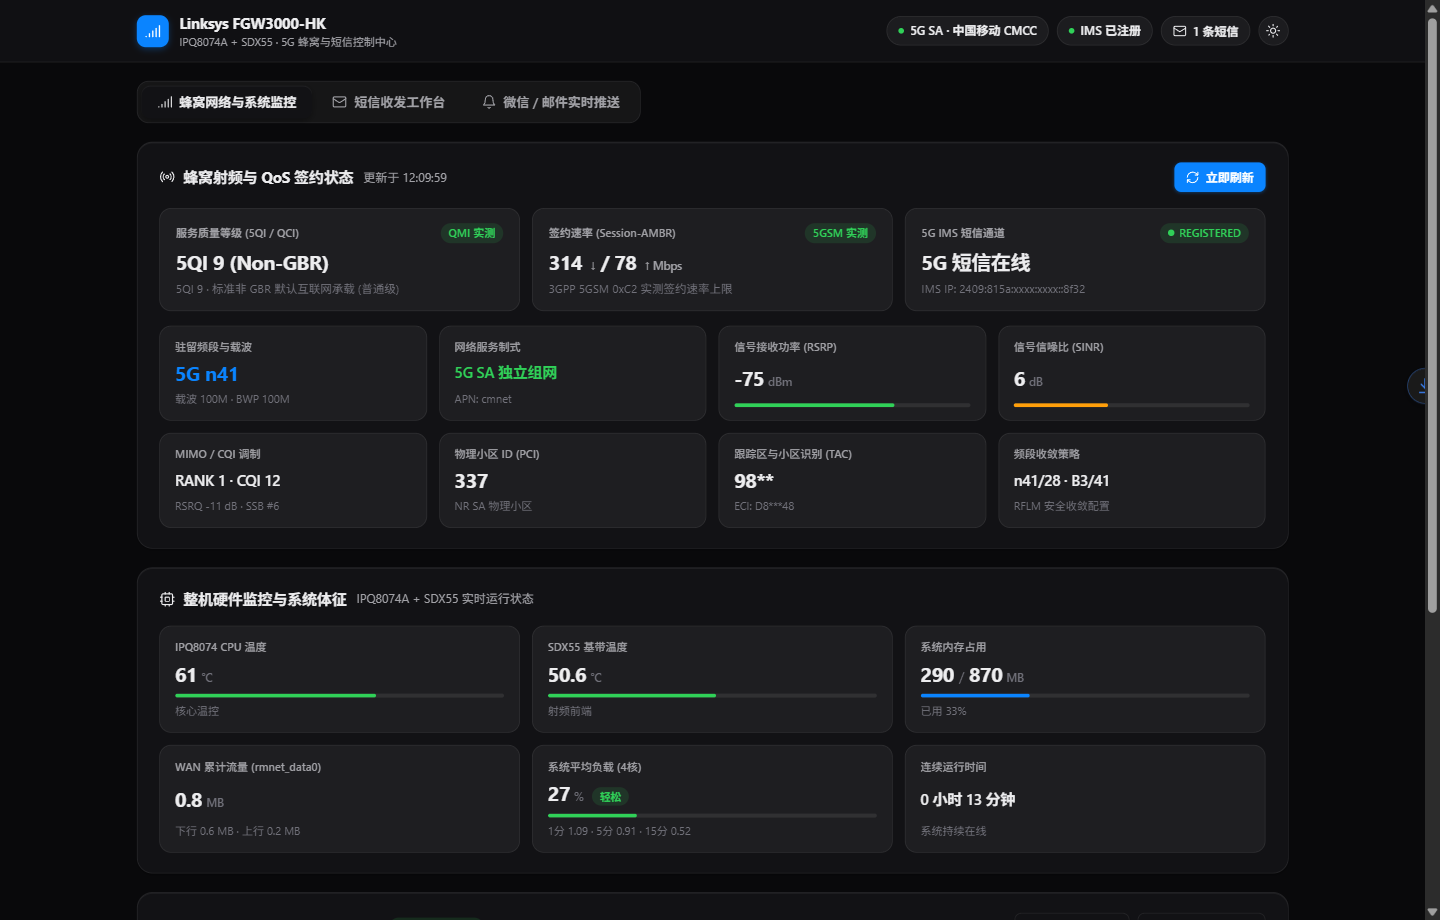
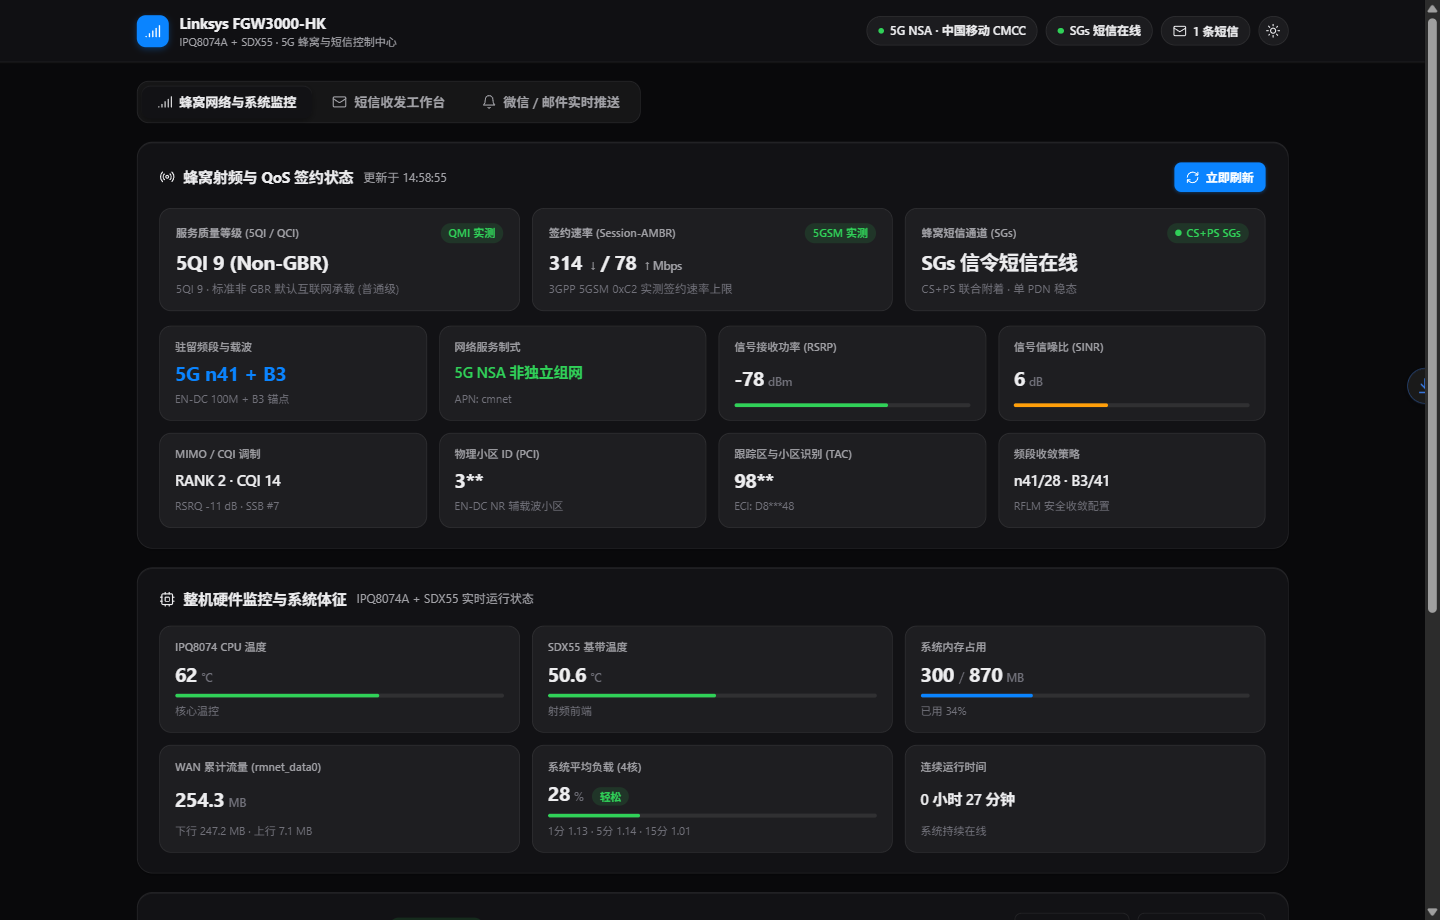
feat: switch steady-state to 5G NSA EN-DC + SGs SMS, QMI WMS zero-AT check & 2-min MHI -110 watchdog

diff --git a/dashboard/dashboard.html b/dashboard/dashboard.html
@@ -721,11 +721,11 @@
       <div class="header-actions">
         <div class="status-pill" id="badge-carrier" title="当前蜂窝网络制式与运营商">
           <span class="dot-6" id="dot-carrier"></span>
-          <span id="txt-carrier">5G SA · 检测中</span>
+          <span id="txt-carrier">5G · 检测中</span>
         </div>
-        <div class="status-pill" id="badge-ims" title="基带 5G IMS 短信通道注册状态">
+        <div class="status-pill" id="badge-ims" title="蜂窝短信通道状态 (SGs / IMS)">
           <span class="dot-6 warn" id="dot-ims-hdr"></span>
-          <span id="txt-ims-hdr">IMS 检测中</span>
+          <span id="txt-ims-hdr">短信通道检测中</span>
         </div>
         <button class="status-pill" onclick="switchTab('tab-sms', document.querySelectorAll('.tab-btn')[1])" title="查看短信收件箱">
           <svg class="ic" width="14" height="14" viewBox="0 0 24 24" fill="none" stroke="currentColor" stroke-width="1.75" stroke-linecap="round" stroke-linejoin="round" aria-hidden="true"><rect width="20" height="16" x="2" y="4" rx="2"/><path d="m22 7-8.97 5.7a1.94 1.94 0 0 1-2.06 0L2 7"/></svg>
@@ -801,14 +801,14 @@
 
           <div class="qos-card">
             <div class="qos-top">
-              <span class="qos-label">5G IMS 短信通道</span>
+              <span class="qos-label" id="lbl-ims-card">蜂窝短信通道</span>
               <span class="qos-pill warn" id="pill-ims">
                 <span class="dot-6 warn" id="dot-ims-card"></span>
                 <span id="txt-ims-badge">检测中</span>
               </span>
             </div>
             <div class="qos-kpi tabular" id="val-ims-status">检测中</div>
-            <div class="qos-desc tabular" id="val-ims-ip" title="基带本地 IMS 承载地址">基带本地独立承载 (10.10.10.3)</div>
+            <div class="qos-desc tabular" id="val-ims-ip" title="蜂窝短信承载模式">检测蜂窝短信通道模式...</div>
           </div>
         </div>
 
@@ -1268,7 +1268,7 @@
           </div>
           <div style="margin-top: 10px;">
             <label class="form-label">屏蔽关键词列表（英文逗号 <code class="inline-code">,</code> 分隔）</label>
-            <input type="text" class="form-input" id="cfg-ignore-keywords" placeholder="推广, 办理业务, 积分兑换, 营销">
+            <input type="text" class="form-input" id="cfg-ignore-keywords" placeholder="手机报, 推广, 办理业务, 积分兑换">
             <p class="fwd-note">命中关键词的短信仍会留在收件箱，但不会触发外部渠道通知。</p>
           </div>
         </div>
@@ -1447,30 +1447,39 @@
       const btnIcon = btn ? btn.querySelector('.ic') : null;
       if (isManual && btnIcon) btnIcon.classList.add('spin');
       try {
-        const res = await fetch('/weblog/api.cgi?action=get_cellular');
+        const res = await fetch(`/weblog/api.cgi?action=get_cellular${isManual ? '&nocache=1' : ''}`);
         const data = await res.json();
         if (data && data.success) {
           const c = data.cellular || {};
           const sys = data.system || {};
 
-          const is5G = (c.nr_band && c.nr_band !== 'N/A' && c.nr_band !== '0');
+          const is5G = Boolean(c.nr_band && c.nr_band !== 'N/A' && c.nr_band !== '0');
+          const hasLteAnchor = Boolean(c.band && c.band !== 'N/A' && c.band !== '0');
+          const isNsa = is5G && (String(c.sa_mode) === '1' || c.rat === 'NR5G-NSA');
           const carrierBw = (c.nr_bandwidth && c.nr_bandwidth !== '0' && c.nr_bandwidth !== 'N/A') ? c.nr_bandwidth : null;
           const bwpBw = (c.nr_bwp_mhz !== undefined && c.nr_bwp_mhz !== null && c.nr_bwp_mhz !== 'N/A') ? c.nr_bwp_mhz : null;
 
           // Band & Mode
-          document.getElementById('val-band').textContent = is5G ? `5G n${c.nr_band}` : `LTE B${c.band || '3'}`;
-          document.getElementById('val-band-sub').textContent = is5G
-            ? (carrierBw ? `载波 ${carrierBw}M · BWP ${bwpBw ?? '--'}M` : 'NR SA 载波')
-            : '4G LTE 载波';
+          document.getElementById('val-band').textContent = isNsa && hasLteAnchor
+            ? `5G n${c.nr_band} + B${c.band}`
+            : (is5G ? `5G n${c.nr_band}` : `LTE B${c.band || '3'}`);
+          document.getElementById('val-band-sub').textContent = isNsa
+            ? (carrierBw ? `EN-DC ${carrierBw}M + B${c.band || '3'} 锚点` : 'EN-DC 双连接载波')
+            : (is5G
+              ? (carrierBw ? `载波 ${carrierBw}M · BWP ${bwpBw ?? '--'}M` : 'NR SA 载波')
+              : '4G LTE 载波');
 
           const saEl = document.getElementById('val-sa-mode');
-          saEl.innerHTML = is5G
-            ? '<span style="color:var(--success);">5G SA 独立组网</span>'
-            : '<span style="color:var(--primary);">4G LTE 服务态</span>';
+          saEl.innerHTML = isNsa
+            ? '<span style="color:var(--success);">5G NSA 非独立组网</span>'
+            : (is5G
+              ? '<span style="color:var(--success);">5G SA 独立组网</span>'
+              : '<span style="color:var(--primary);">4G LTE 服务态</span>');
 
           const opLabel = plmnName(c.plmnid);
+          const modeShort = isNsa ? '5G NSA' : (is5G ? '5G SA' : '4G LTE');
           const txtCarrier = document.getElementById('txt-carrier');
-          if (txtCarrier) txtCarrier.textContent = `${is5G ? '5G SA' : '4G LTE'} · ${opLabel}`;
+          if (txtCarrier) txtCarrier.textContent = `${modeShort} · ${opLabel}`;
           document.getElementById('dns-plmn').textContent = `${c.plmnid && c.plmnid !== 'N/A' ? c.plmnid : '--'} · ${c.apn || 'cmnet'}`;
 
           // Active carrier preset highlight
@@ -1525,39 +1534,59 @@
               : '当前基带未暴露 Session-AMBR';
           }
 
-          // IMS Registration Status (from top-level data.ims)
+          // SMS Channel Status (Adaptive: 5G IMS when registered, SGs in 5G NSA / 4G, warn only in pure SA without IMS)
           const ims = data.ims || {};
           const imsKnown = data.ims !== undefined;
           const imsReg = ims.registered === true;
+          const isSgsMode = String(c.sa_mode) === '1' || String(c.net_mode) === '1' || c.rat === 'NR5G-NSA' || !is5G;
           const dotHdr = document.getElementById('dot-ims-hdr');
           const dotCard = document.getElementById('dot-ims-card');
           const pillIms = document.getElementById('pill-ims');
-          if (!imsKnown) {
-            dotHdr.className = 'dot-6 warn';
-            dotCard.className = 'dot-6 warn';
-            pillIms.className = 'qos-pill neutral';
-            document.getElementById('txt-ims-hdr').textContent = 'IMS 待接入';
-            document.getElementById('txt-ims-badge').textContent = '待上报';
-            document.getElementById('val-ims-status').textContent = '检测中';
-          } else if (imsReg) {
+          const lblImsCard = document.getElementById('lbl-ims-card');
+          const ipEl = document.getElementById('val-ims-ip');
+          if (imsReg) {
             dotHdr.className = 'dot-6';
             dotCard.className = 'dot-6';
             pillIms.className = 'qos-pill ok';
+            if (lblImsCard) lblImsCard.textContent = '5G IMS 短信通道';
             document.getElementById('txt-ims-hdr').textContent = 'IMS 已注册';
             document.getElementById('txt-ims-badge').textContent = ims.state || 'REGISTERED';
-            document.getElementById('val-ims-status').textContent = '5G 短信在线';
-            const ipEl = document.getElementById('val-ims-ip');
+            document.getElementById('val-ims-status').textContent = '5G IMS 短信在线';
             if (ims.ip) {
               ipEl.textContent = `IMS IP: ${ims.ip}`;
               ipEl.title = `IMS IPv6: ${ims.ip} | P-CSCF: ${ims.pcscf || '--'}`;
+            } else {
+              ipEl.textContent = '基带本地独立承载 (10.10.10.3)';
+              ipEl.title = '基带本地 IMS 承载地址';
             }
+          } else if (isSgsMode) {
+            dotHdr.className = 'dot-6';
+            dotCard.className = 'dot-6';
+            pillIms.className = 'qos-pill ok';
+            if (lblImsCard) lblImsCard.textContent = '蜂窝短信通道 (SGs)';
+            document.getElementById('txt-ims-hdr').textContent = 'SGs 短信在线';
+            document.getElementById('txt-ims-badge').textContent = 'CS+PS SGs';
+            document.getElementById('val-ims-status').textContent = 'SGs 信令短信在线';
+            ipEl.textContent = 'CS+PS 联合附着 · 单 PDN 稳态';
+            ipEl.title = '4G EPC / EN-DC CS+PS 联合附着原生 SGs 信令通道 (无需独立 IMS 会话)';
+          } else if (!imsKnown) {
+            dotHdr.className = 'dot-6 warn';
+            dotCard.className = 'dot-6 warn';
+            pillIms.className = 'qos-pill neutral';
+            if (lblImsCard) lblImsCard.textContent = '5G IMS 短信通道';
+            document.getElementById('txt-ims-hdr').textContent = 'IMS 待接入';
+            document.getElementById('txt-ims-badge').textContent = '待上报';
+            document.getElementById('val-ims-status').textContent = '检测中';
           } else {
             dotHdr.className = 'dot-6 warn';
             dotCard.className = 'dot-6 warn';
             pillIms.className = 'qos-pill warn';
+            if (lblImsCard) lblImsCard.textContent = '5G IMS 短信通道';
             document.getElementById('txt-ims-hdr').textContent = 'IMS 未注册';
             document.getElementById('txt-ims-badge').textContent = ims.state || 'OFFLINE';
             document.getElementById('val-ims-status').textContent = ims.running ? '重注册中' : '服务未运行';
+            ipEl.textContent = '纯 5G SA 单 PDN 模式 (未启用 IMS)';
+            ipEl.title = '纯 5G SA 下需启用基带 IMS 方可收信';
           }
 
           // RSRP & SINR
@@ -1595,9 +1624,9 @@
             rankSubEl.textContent = [rsrqPart, ssbPart].filter(Boolean).join(' · ') || '4x4 MIMO 链路';
           } else {
             rankCqiEl.textContent = is5G ? 'RRC IDLE' : 'LTE 链路';
-            rankSubEl.textContent = is5G ? '无业务休眠 (BWP 20MHz)' : 'SDX55 4G 链路';
+            rankSubEl.textContent = isNsa ? `SCG 休眠 (B${c.band || '3'} 锚点在线)` : (is5G ? '无业务休眠 (BWP 20MHz)' : 'SDX55 4G 链路');
           }
-          document.getElementById('val-arfcn-sub').textContent = is5G ? 'NR SA 物理小区' : 'LTE 物理小区';
+          document.getElementById('val-arfcn-sub').textContent = isNsa ? 'EN-DC NR 辅载波小区' : (is5G ? 'NR SA 物理小区' : 'LTE 物理小区');
 
           // PCI, TAC, ECI, APN, Bands
           const pci = is5G ? (c.nr_pcid && c.nr_pcid !== '0' && c.nr_pcid !== 'N/A' ? c.nr_pcid : (c.real_cell_id || '--')) : (c.real_cell_id || '--');
@@ -2048,7 +2077,7 @@
         tg_chat_id: document.getElementById('cfg-tg-chat').value.trim(),
         webhook_enabled: document.getElementById('fwd-webhook-enabled').checked,
         webhook_url: document.getElementById('cfg-webhook-url').value.trim(),
-        ignore_keywords: document.getElementById('cfg-ignore-keywords').value.trim() || ''
+        ignore_keywords: document.getElementById('cfg-ignore-keywords').value.trim()
       };
       try {
         const res = await fetch('/weblog/api.cgi?action=save_forward_config', {

diff --git a/README.md b/README.md
@@ -3,15 +3,15 @@
 > **⚠ 本项目的 HTML/脚本/刷机包均为 Linksys FGW3000-HK 专用，其他型号（如 FGW3000 / 非 HK 版）不适用！**
 >
 > 为 **Linksys FGW3000-HK**（高通 IPQ8074A + 骁龙 SDX55 5G CPE，香港版）打造的
-> **调试权限开启 + 5G SA 频段解锁 + 基带本地 5G IMS 短信 + 极客 Web 控制台** 开源项目。
-> 支持四大运营商 5G SA 收敛锁频、QMI 5QI / 3GPP 5GSM 签约速率检测、5G 短信实时收发与多渠道推送、WAN 双栈自愈守护、SmartDNS 加速及可选透明代理。
+> **调试权限开启 + 5G NSA/SA 频段解锁 + SGs / IMS 双栈短信 + 极客 Web 控制台** 开源项目。
+> 支持四大运营商 5G NSA (EN-DC) / SA 收敛锁频、QMI 5QI / 3GPP 5GSM 签约速率检测、原生 SGs 与可选 5G IMS 短信实时收发及多渠道推送、WAN 双栈自愈守护、SmartDNS 加速及可选透明代理。
 
 **English** | [中文](#中文文档)
 
 > **⚠ HTML / scripts / config pack are for Linksys FGW3000-HK (HK version) ONLY.**
 
 An open-source enhancement suite for the **Linksys FGW3000-HK** 5G CPE:
-**unlock Telnet/SSH** + **enable CN 5G SA (n41/n28/n78/n79)** + **modem-local QRTR 5G IMS SMS** + **QMI 5QI & 3GPP 5GSM Session-AMBR telemetry** + **Apple HIG web dashboard** (WAN dual-stack self-healing, SmartDNS + Anti-AD, multi-channel SMS forwarding, and optional Sing-box transparent proxy).
+**unlock Telnet/SSH** + **enable CN 5G NSA/SA (n41/n28/n78/n79)** + **native CS+PS SGs SMS & QMI WMS zero-AT polling (plus opt-in modem QRTR 5G IMS SMS)** + **QMI 5QI & 3GPP 5GSM Session-AMBR telemetry** + **Apple HIG web dashboard** (WAN dual-stack self-healing, 2-min MHI `-110/-12` watchdog, SmartDNS + Anti-AD, multi-channel SMS forwarding, and optional Sing-box transparent proxy).
 
 ### 界面预览 / Screenshots
 
@@ -19,7 +19,7 @@ An open-source enhancement suite for the **Linksys FGW3000-HK** 5G CPE:
 | :---: | :---: |
 | ![蜂窝与 QoS 监控（浅色）](docs/images/dashboard-light-cell.png) | ![蜂窝与 QoS 监控（深色）](docs/images/dashboard-dark-cell.png) |
 
-| 5G IMS 短信收发工作台 | 多渠道短信实时推送 |
+| 蜂窝短信收发工作台 | 多渠道短信实时推送 |
 | :---: | :---: |
 | ![短信收发工作台](docs/images/dashboard-light-sms.png) | ![多渠道实时推送](docs/images/dashboard-light-forward.png) |
 
@@ -40,10 +40,10 @@ An open-source enhancement suite for the **Linksys FGW3000-HK** 5G CPE:
 | 原厂状态（痛点） | 本项目之后（你能做的） |
 | --- | --- |
 | 没有 Telnet/SSH，进不去系统，什么都改不了 | **永久开启 Telnet/SSH（仅限 LAN `br0` 内网访问）**，安全可控 |
-| **原厂固件默认未开启 5G SA**，隐藏国内移动 `n41` 等主力频段 | **开启 5G SA 并解锁国内四大运营商频段（移动/广电 `n41/n28/n79`、电信/联通 `n78/n1`）** |
-| 5G 模式下无法收发短信验证码，多 PDN 拨号导致硬件加速失效 | **基带本地 QRTR 5G IMS 短信守护（`ims_sip`）**，单 PDN 满速与 5G 实时收信兼得 |
+| **原厂固件默认未开启国内 5G 主力频段**，隐藏移动 `n41` 等载波 | **完整解锁四大运营商 5G NSA/SA 频段（移动/广电 `n41/n28/n79`、电信/联通 `n78/n1`）** |
+| 原厂锁死纯数据域（`PS_ONLY`）无法收短信，且 5G SA 双 PDU 会话易触发基带 `-110` 假死 | **5G NSA (`EN-DC` 120MHz) + `CS+PS` 原生 SGs 短信 + QMI WMS 零阻塞预检**（单 PDN 硬件加速满速与 7×24 零死机兼得，另附可选 `ims_sip`） |
 | 看不见 SIM 卡真实网络等级与签约限速，排查网速靠盲猜 | **直读 QMI 5QI/QCI 等级 + 3GPP 5GSM `0xC2` 核心网下发签约速率（Session-AMBR）** |
-| 夜间基站切频重连丢 IPv6 或极端 MHI 假死断网 | **`net_orchestrator.sh` Raw-IP 双栈自愈 + MHI 假死智能复位 + `223.5.5.5` DNS 兜底** |
+| 夜间基站切频重连丢 IPv6 或极端 MHI 假死断网 | **`net_orchestrator.sh` Raw-IP 双栈自愈 + 2 分钟 MHI `-110/-12` 智能冷启自救 + `223.5.5.5` DNS 兜底** |
 | 官方 Web 后台功能寒酸、没有验证码转发 | **Apple HIG 双主题控制台** + 微信 PushPlus / 邮箱 SMTP / Bark / Telegram / Webhook 推送 |
 
 > **关于 5G SA 与频段安全上限（重要）**：FGW3000-HK 的 SDX55 基带硬件支持 `n41 / n28 / n78 / n79 / n1 / n3 / n5` 等频段，但**高通 RFLM 射频前端交换矩阵限制单次同时激活的 `LTE + NR` 总频段数建议控制在 `≤ 5` 个以内**（按当前运营商收敛开启，切勿一次性勾选 8~10 个频段，否则可能触发基带 RFLM XSW 断言保护重启）。详见 [docs/03](docs/03-原理与常见问题.md)。
@@ -214,13 +214,14 @@ ssh root@192.168.15.1   # root / admin
 **或命令行**（SSH/Telnet）：
 
 ```sh
-sh /mnt/jffs2/auto_carrier.sh force_cmcc   # 移动 SA (n41,n28 + B3,B41)
-sh /mnt/jffs2/auto_carrier.sh force_ct     # 电信 SA (n78,n1 + B1,B3)
-sh /mnt/jffs2/auto_carrier.sh force_cu     # 联通 SA (n78,n1 + B1,B3)
-sh /mnt/jffs2/auto_carrier.sh force_cbn    # 广电 SA (n28,n41,n79 + B3,B41)
+sh /mnt/jffs2/auto_carrier.sh force_cmcc      # 移动 5G NSA 稳态推荐 (EN-DC B3+n41 + 原生 SGs 短信)
+sh /mnt/jffs2/auto_carrier.sh force_cmcc_sa   # 移动 5G SA 单 PDN (n41,n28 + B3,B41)
+sh /mnt/jffs2/auto_carrier.sh force_ct        # 电信 5G SA 单 PDN (n78,n1 + B1,B3,B5)
+sh /mnt/jffs2/auto_carrier.sh force_cu        # 联通 5G SA 单 PDN (n78,n1 + B1,B3,B8)
+sh /mnt/jffs2/auto_carrier.sh force_cbn       # 广电 5G SA 单 PDN (n28,n41,n79 + B3,B41)
 ```
 
-**验证**：`AT+C5GREG?` 返回 `+C5GREG: 0,1` 即 SA 注册成功；面板实时展示驻留频段（如 `5G n41` 100MHz）、`RANK`、`5QI` 等级与签约速率。
+**验证**：5G NSA 下 `AT+COPS?` 返回 `13`（EN-DC）且 `AT+CREG?` 返回 `0,1`（SGs 短信在线）；5G SA 下 `AT+C5GREG?` 返回 `0,1`。面板自动识别并展示 `5G NSA 非独立组网`（如 `5G n41 + B3`）或 `5G SA 独立组网`、`RANK`、`5QI` 等级与签约速率。
 
 > 完整说明见 [`docs/03-原理与常见问题.md`](docs/03-原理与常见问题.md)。
 

diff --git a/docs/02-部署与配置.md b/docs/02-部署与配置.md
@@ -53,13 +53,13 @@ sh /mnt/jffs2/startup.sh                    # 手动执行一次验证
 
 ---
 
-## 二·五、部署基带侧 5G IMS 短信与 QoS 模块（Modem `10.10.10.3`，可选推荐）
+## 二·五、部署基带侧 SGs / QMI WMS 短信、QoS 与可选 5G IMS 模块（Modem `10.10.10.3`）
 
-为避免主路由开启多 PDN (`APN_Multiple_PDN_Enable=1`) 破坏 IPQ8074A NSS 硬件加速导致降速，5G IMS 短信守护直接运行在内部 SDX55 基带（`10.10.10.3`）本地：
+在推荐的 **5G NSA (`EN-DC`, `sa_mode=1`) / 4G 单 PDN 稳态模式** 下，主路由通过 `lte_mgr_csps`（`CS+PS` 联合附着）直接开启原生 SGs 信令收发短信，基带 `/data/parse_sms.pl` 通过 QRTR `QMI WMS 0x0031` 零阻塞预检 SIM/NV 槽位（日常 0 次打开 `/dev/smd7`），**默认无需启动第二条 `ims` PDU 会话**，彻底规避港版 SDX55 固件在 5G SA 并发双 PDU 会话下的 MPSS `-110` 死锁风险：
 
-1. 按 [`modem/ims_sip/README.md`](../modem/ims_sip/README.md) 交叉编译 `ARMv7` 静态二进制 `ims_sip`，上传至基带 `/data/ims_sip`（`chmod +x`）。
-2. 将 `modem/scripts/` 传入基带 `/data/`（`oem_init_post.sh`, `probe_ambr.pl`, `parse_sms.pl`, `del_sms.sh`, `send_sms.pl`），将 `modem/cgi-bin/` 传入 `/data/www/cgi-bin/`（`aka`, `ims_info`, `ims_sip_ctl`, `cell_qos`, `sms`, `delete_sms`, `send_sms`），统一执行 `chmod +x`。
-3. 确保基带 `/oem/script/oem_init_post.sh` 末尾包含 `sh /data/oem_init_post.sh &`（主路由 `deploy_to_modem.exp` 亦会在开机自动巡检恢复）。
+1. 将 `modem/scripts/` 传入基带 `/data/`（`oem_init_post.sh`, `probe_ambr.pl`, `parse_sms.pl`, `del_sms.sh`, `send_sms.pl`），将 `modem/cgi-bin/` 传入 `/data/www/cgi-bin/`（`aka`, `ims_info`, `ims_sip_ctl`, `cell_qos`, `sms`, `delete_sms`, `send_sms`），统一执行 `chmod +x`。
+2. 确保基带 `/oem/script/oem_init_post.sh` 末尾包含 `sh /data/oem_init_post.sh &`（主路由 `deploy_to_modem.exp` 亦会在开机自动巡检恢复）。
+3. **（可选，仅纯 5G SA 且无 SGs 回落环境按需启用）**：按 [`modem/ims_sip/README.md`](../modem/ims_sip/README.md) 交叉编译 `ARMv7` 静态二进制 `ims_sip` 上传至 `/data/ims_sip`，并在基带创建 `/data/.enable_ims_sip`（及主路由 `/mnt/jffs2/conf/user/.enable_ims_sip`）显式开启。
 
 ---
 

diff --git a/modem/ims_sip/README.md b/modem/ims_sip/README.md
@@ -31,4 +31,4 @@ go build -trimpath -ldflags="-s -w" -o ims_sip main.go
 - 二进制路径：`/data/ims_sip`（`chmod +x /data/ims_sip`）
 - 状态文件：`/tmp/ims_sip.status`、`/tmp/ims_sip.log`
 - 控制接口：`/data/www/cgi-bin/ims_sip_ctl?action=status|ensure|restart|stop`
-- 开机自启：由基带 `/data/oem_init_post.sh` 启动，并由主路由 `/mnt/jffs2/startup.sh` 跨端探活兜底。
+- 开机门控（默认关闭）：由于港版 SDX55 固件（`RXMG1.37.00.427_0C03`）在 **5G SA** 下长期并发维持第 2 条 `ims` PDU 会话存在 MPSS `-110` 死锁缺陷，日常 7×24 稳态推荐使用 **5G NSA (`EN-DC`, `sa_mode=1`) + `CS+PS` 原生 SGs 短信**（无需运行 `ims_sip`）。仅当创建显式开关文件 `/data/.enable_ims_sip`（基带）与 `/mnt/jffs2/conf/user/.enable_ims_sip`（主路由）时，`/data/oem_init_post.sh` 与 `/mnt/jffs2/startup.sh` 才会自动拉起 `ims_sip`。
